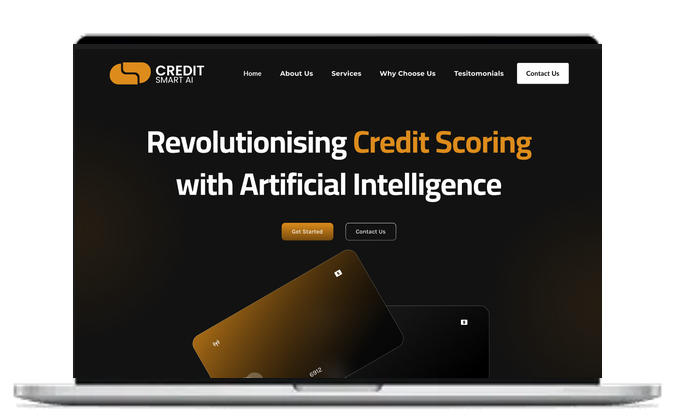
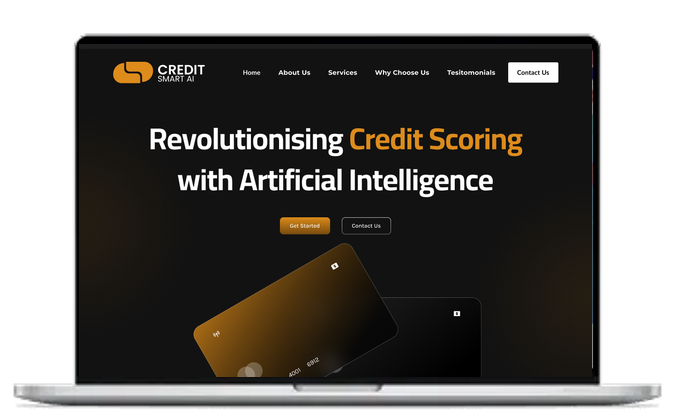
fix: correct the mockup screen rectangle and stop crops slicing text
Three faults reported on the generated mockups, all real.

Edges. The screen rectangle was eyeballed at (73,44)-(602,378). The true one is
(79,44)-(592,377), derived rather than guessed: two live mockups share a single
chassis, so the pixels where they differ ARE the screen. The old rectangle was
6px too wide on the left and 10px on the right, so page content spilled over the
bezel and squared off the corners. Verified after the fix: the regenerated
smart-contractor differs from the reference chassis only inside x 79..591,
y 44..376, and is pixel-identical everywhere else.

MediAnalyze AI cut mid-heading. Cropping every page at the screen's aspect put
the cut through "Welcome to MediAnalyze AI". Health Chain and SuccessPath were
sliced the same way.

Health Predictor was not fitted. Its hero ends at 652 but the crop ran to 711,
so the mockup showed the hero plus a band of the white section beneath it.

The crop is now chosen per page: pulled up to the hero boundary where one
exists, else to a gap between text lines, with the width trimmed symmetrically
to hold the aspect. The trim is capped at 55px per side against each page's own
measured navigation margins, so it can never eat a logo or a button. Where a
hero is too short for even that — JurisPredict and MediAnalyze AI — the crop
goes as tight as the nav allows, leaving a thin band rather than half a section.

build.py and the README record the method so this is repeatable rather than a
one-off pass.

diff --git a/design/mockups/build.py b/design/mockups/build.py
@@ -1,0 +1,90 @@
+"""Composite a product landing page into the site's laptop chassis.
+
+Screen rectangle: derived, not guessed. Two live mockups share one chassis, so
+the pixels where they differ ARE the screen: (79,44)-(592,377), 513x333, square
+corners. The first pass used a rectangle 6px too wide on the left and 10px on
+the right, which spilled page content over the bezel.
+
+Crop: the page is cropped from the top at the screen's aspect. Where the hero
+section ends above that line, the crop is pulled up to the hero boundary and the
+width trimmed symmetrically to keep the aspect, so the mockup shows the hero and
+not a slice of the section beneath it. The trim is capped by the page's own
+navigation margins, measured per page, so it can never eat the logo or the
+right-hand button. Pages whose nav runs edge to edge simply keep the full-width
+crop.
+"""
+from PIL import Image
+import numpy as np
+
+CHASSIS = 'public/work/chain-legal.png'
+SCREEN = (79, 44, 592, 377)
+SW, SH = SCREEN[2] - SCREEN[0], SCREEN[3] - SCREEN[1]
+ASPECT = SW / SH
+NAV_KEEP = 14          # px of clear space to leave beside nav content
+
+
+def nav_margins(a, w):
+    band = a[12:92].astype(int)
+    g = np.abs(np.diff(band, axis=1)).sum(axis=2)
+    idx = np.where((g > 45).any(axis=0))[0]
+    if not len(idx):
+        return w // 2, w // 2
+    return int(idx.min()), int(w - 1 - idx.max())
+
+
+def hero_bottom(a, lo=380, hi=900):
+    rows = a.mean(axis=1)
+    d = np.abs(np.diff(rows, axis=0)).sum(axis=1)
+    hi = min(hi, len(d))
+    return int(np.argmax(d[lo:hi]) + lo)
+
+
+MAX_TRIM = 55          # px per side — measured to keep every nav bar intact
+
+
+def ink_profile(a):
+    """Per-row ink: how many pixels sit on a sharp horizontal edge (i.e. text)."""
+    g = np.abs(np.diff(a.astype(int), axis=1)).sum(axis=2)
+    return (g > 55).sum(axis=1)
+
+
+def build(page, x0, x1, out_path):
+    w = x1 - x0
+    a = np.asarray(page.crop((x0, 0, x1, 1000)))
+    ideal_h = round(w / ASPECT)
+    hb = hero_bottom(a)
+    ink = ink_profile(a)
+    quiet = ink < max(6, int(0.006 * w))
+
+    # Cut inside a text-free gap at least 10px tall, as low as possible without
+    # trimming more than MAX_TRIM off each side.
+    lowest = ideal_h
+    while (w - round(lowest * ASPECT)) / 2 <= MAX_TRIM and lowest > 60:
+        lowest -= 1
+    lowest += 1
+
+    chosen, why = ideal_h, 'full width'
+    # A section boundary beats a text gap: at the foot of a hero the rows are
+    # full of image edges, so the text test would reject the very cut we want.
+    if hb < ideal_h and (w - round(hb * ASPECT)) / 2 <= MAX_TRIM:
+        chosen, why = hb, 'hero boundary'
+    else:
+      for h in range(min(ideal_h, hb if hb < ideal_h else ideal_h), lowest - 1, -1):
+        lo, hi = max(0, h - 5), min(len(quiet), h + 6)
+        if quiet[lo:hi].all():
+            chosen, why = h, 'gap between text lines'
+            break
+      else:
+        # Hero shorter than the screen and no clean gap: crop as tight as the
+        # nav allows, which keeps the bleed to a thin band under the hero
+        # rather than half of the next section.
+        if hb < ideal_h:
+            chosen, why = lowest, 'tightest crop the nav allows'
+
+    crop_w = min(w, round(chosen * ASPECT))
+    left = (w - crop_w) // 2
+    shot = page.crop((x0 + left, 0, x0 + left + crop_w, chosen)).resize((SW, SH), Image.LANCZOS)
+    chassis = Image.open(CHASSIS).convert('RGBA')
+    chassis.paste(shot, (SCREEN[0], SCREEN[1]))
+    chassis.save(out_path)
+    return dict(crop=(crop_w, chosen), ideal_h=ideal_h, hero=hb, trim=left, why=why)

diff --git a/design/mockups/README.md b/design/mockups/README.md
@@ -43,10 +43,23 @@ could be written. Nothing here should be turned into a case study until the
 underlying engagement detail exists — inventing it is what this repo's content
 rules exist to prevent.
 
-## Known characteristic
+## How the crop is chosen
 
-Four pages have a hero shorter than the screen's 1.58:1, so the mockup shows the
-first line or two of the following section: `health-chain`, `juris-predict`,
-`medi-analyze-ai` and `success-path`. That reads as a normal browser screenshot
-rather than a fault, and the alternative — cropping tighter to end at the hero —
-would have trimmed the navigation bar's edges. Retune if you disagree.
+`build.py` does the compositing. Two things it gets right that a naive crop does
+not:
+
+**The screen rectangle is derived, not eyeballed.** Two live mockups share one
+chassis, so the pixels where they differ *are* the screen: (79,44)-(592,377).
+An earlier pass used a rectangle 6px too wide on the left and 10px on the right,
+which spilled page content over the bezel and squared off the corners.
+
+**The cut avoids slicing text.** Cropping at the screen's aspect often lands
+mid-sentence in the section below the hero. So the crop is pulled up to the hero
+boundary where one exists, or to a gap between text lines, and the width is then
+trimmed symmetrically to hold the aspect. The trim is capped at 55px per side,
+measured against each page's own navigation margins, so it can never eat a logo
+or a right-hand button. Where a hero is too short for even that, the crop goes
+as tight as the nav allows, leaving a thin band rather than half a section.
+
+Regenerate with `python design/mockups/build.py` driven from the page render, or
+call `build(page, x0, x1, out_path)` directly.
